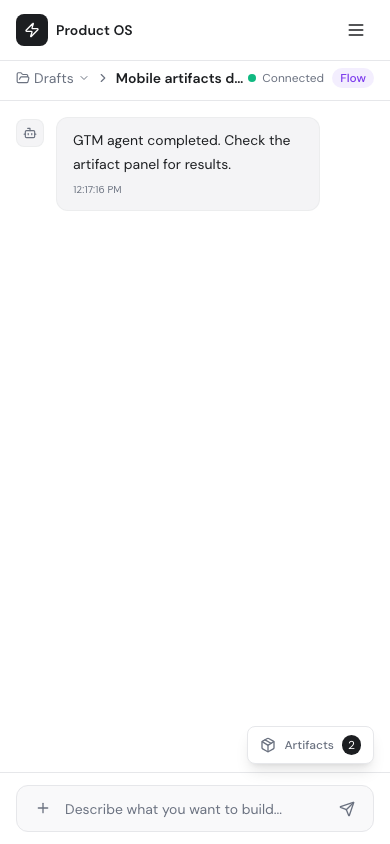
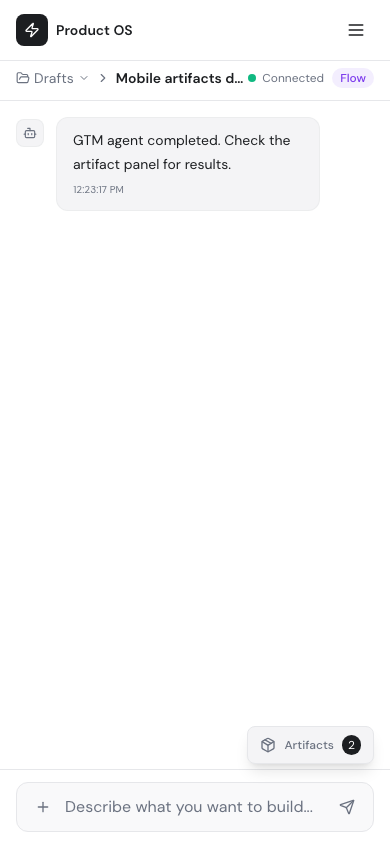
Fix flow mobile drawer anchor and iOS input zoom

Changed region(s): [[0.1538, 0.9242, 0.7692, 0.9858], [0.8615, 0.9242, 0.9231, 0.9858], [0.2154, 0.2156, 0.3077, 0.2464]]

diff --git a/packages/web/src/pages/changelog.tsx b/packages/web/src/pages/changelog.tsx
@@ -94,6 +94,18 @@ export function ChangelogPage() {
               wrapping.
             </li>
             <li>
+              <strong>Flow mobile artifact drawer top-anchor correction</strong>{" "}
+              &mdash; Adjusted mobile drawer and backdrop offsets so the artifact
+              panel starts directly beneath the app header instead of leaving a
+              visible gap below the flow title bar.
+            </li>
+            <li>
+              <strong>Flow mobile input focus zoom fix (iOS Safari)</strong>{" "}
+              &mdash; Increased the mobile composer textarea font size to prevent
+              Safari auto-zoom on focus, preserving the expected title bar and
+              empty-state framing while typing.
+            </li>
+            <li>
               <strong>Encrypted-secret runtime handling</strong> &mdash; LLM
               and integration token consumers now transparently decrypt stored
               secrets before use, while preserving compatibility with existing

diff --git a/packages/web/src/pages/flow-session.tsx b/packages/web/src/pages/flow-session.tsx
@@ -112,13 +112,13 @@ export function FlowSessionPage({ sessionId, artifacts: sseArtifacts, repoUrl: i
       {showArtifacts && (
         <>
           <div
-            className="fixed inset-0 bg-black/40 z-40 md:hidden"
+            className="fixed inset-x-0 bottom-0 -top-[45px] bg-black/40 z-40 md:hidden"
             onClick={() => setShowArtifacts(false)}
             aria-hidden="true"
           />
           <div
             className={cn(
-              "fixed top-0 right-0 bottom-0 z-50 w-[min(92vw,24rem)] border-l bg-card flex flex-col",
+              "fixed -top-[45px] right-0 bottom-0 z-50 w-[min(92vw,24rem)] border-l bg-card flex flex-col",
               "md:static md:top-auto md:right-auto md:bottom-auto md:z-auto md:w-80 lg:w-96",
               "flex-shrink-0 relative"
             )}

diff --git a/packages/web/src/components/flow-chat-thread.tsx b/packages/web/src/components/flow-chat-thread.tsx
@@ -904,7 +904,7 @@ export function FlowChatThread({ sessionId, repoUrl, onConnectRepo, agents, arti
             onKeyDown={handleKeyDown}
             placeholder="Describe what you want to build..."
             rows={1}
-            className="flex-1 resize-none bg-transparent py-1 text-sm placeholder:text-muted-foreground focus:outline-none min-h-[28px] max-h-[160px]"
+            className="flex-1 resize-none bg-transparent py-1 text-base md:text-sm placeholder:text-muted-foreground focus:outline-none min-h-[28px] max-h-[160px]"
             style={{ height: "auto", overflow: "hidden" }}
             onInput={(e) => {
               const target = e.target as HTMLTextAreaElement;

diff --git a/CHANGELOG.md b/CHANGELOG.md
@@ -22,6 +22,8 @@ All notable changes to Product OS are documented here.
 
 - **Flow mobile artifact panel access** — Restored artifact access in mobile flow sessions by adding a dedicated “Open artifacts panel” trigger and a mobile drawer presentation with close controls.
 - **Flow mobile artifact drawer alignment + trigger layout** — Removed extra vertical offset so the mobile artifact drawer aligns directly under the session header, and fixed the floating artifact trigger to render as a single-row button instead of wrapping/breaking.
+- **Flow mobile artifact drawer top-anchor correction** — Adjusted mobile drawer/backdrop offsets so the artifact panel now starts directly beneath the app header instead of leaving a visible gap below the flow title bar.
+- **Flow mobile input focus zoom fix (iOS Safari)** — Increased the mobile composer textarea font size to prevent Safari auto-zoom on focus, preserving the expected title bar and empty-state framing while typing.
 
 - **Encrypted-secret runtime handling** — LLM and integration token consumers now transparently decrypt stored secrets before use, preserving compatibility with existing plaintext records while moving all new writes to encrypted storage.
 - **Gemini Flow-mode model retirement resilience** — Replaced the retired `gemini-1.5-pro` default with current Gemini model candidates and added automatic fallback across supported Gemini models when Google returns model-not-found errors, preventing Flow-mode failures from hardcoded stale model IDs.
